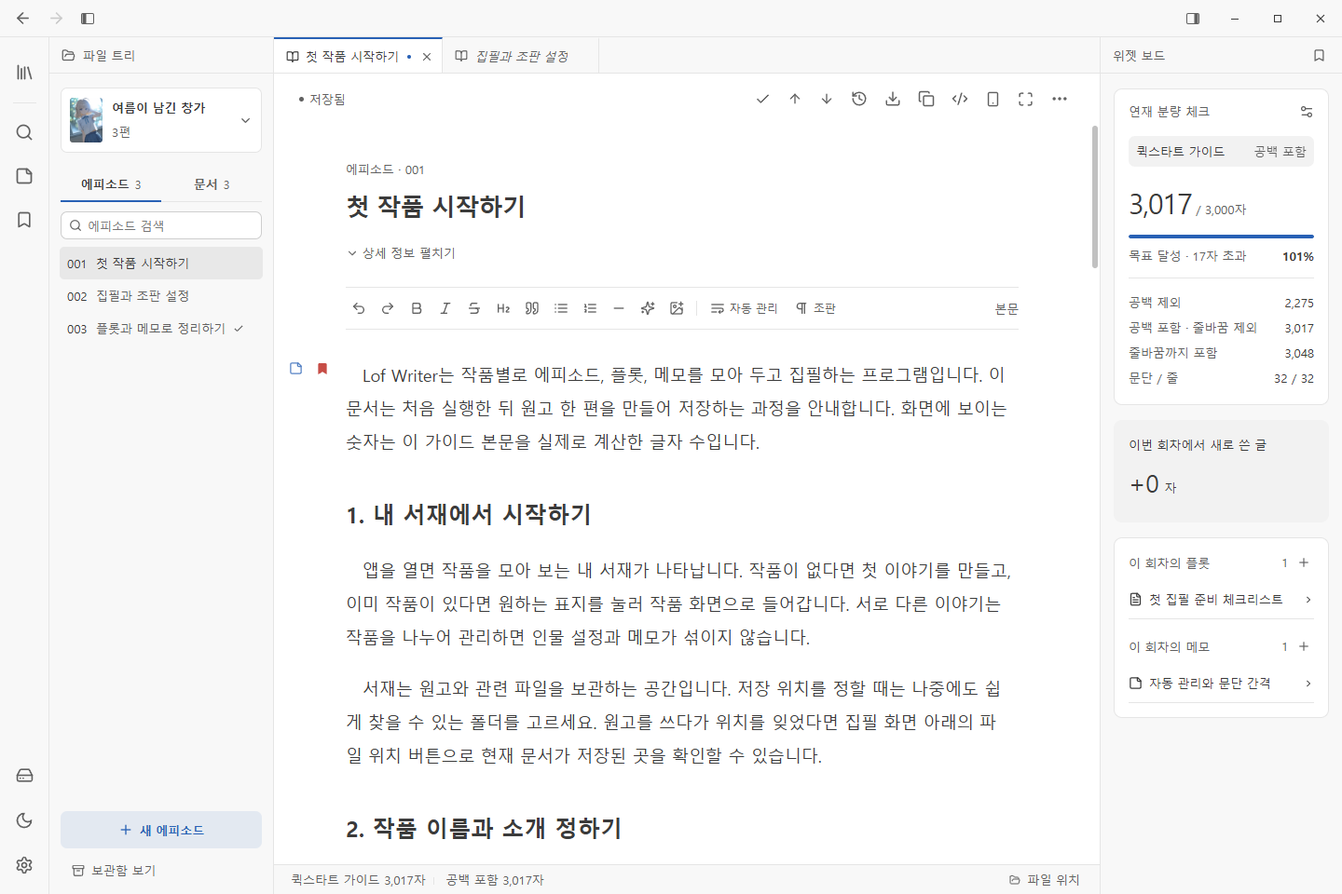
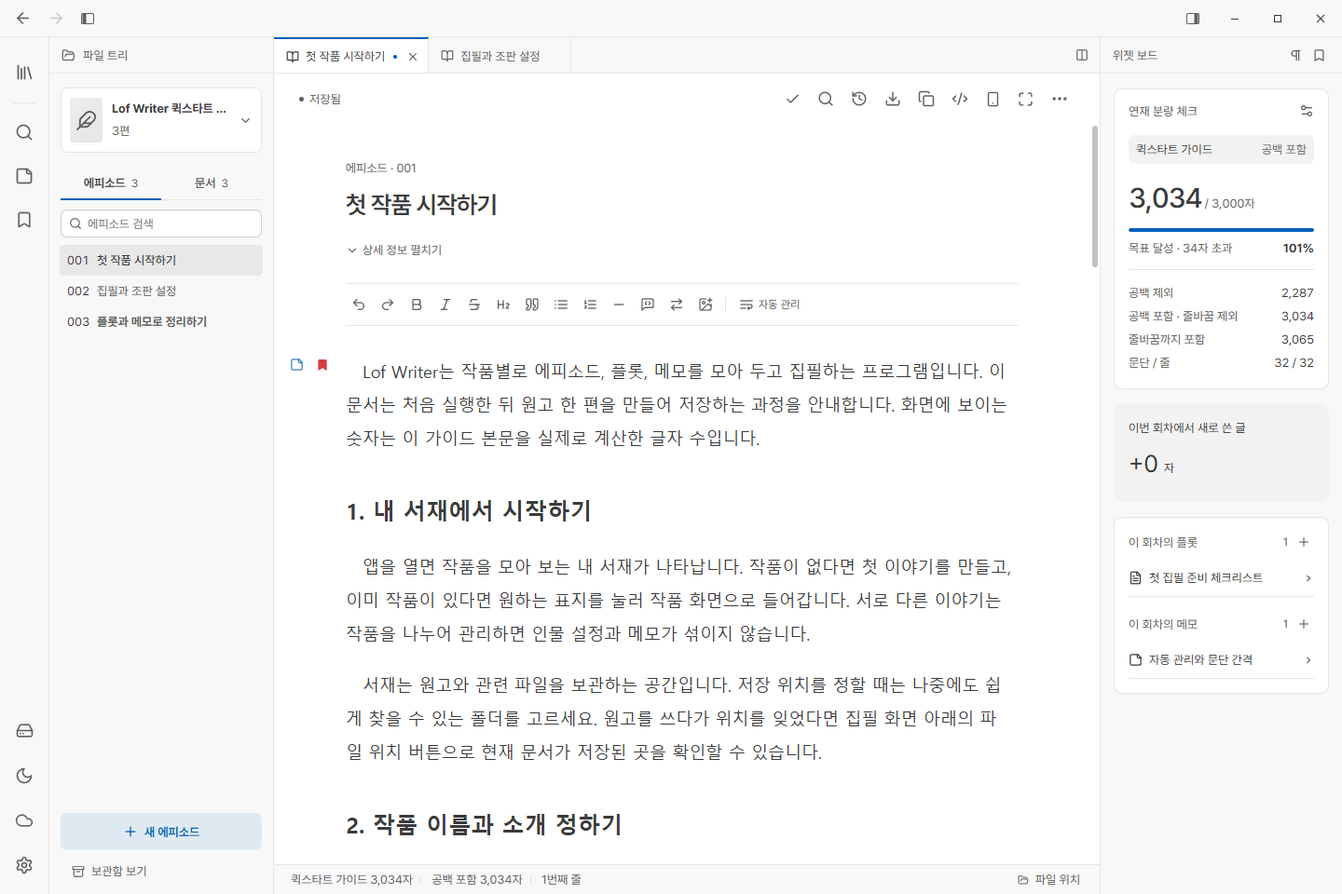
새 스냅샷으로 홈페이지 개편 및 Android 다운로드 추가

diff --git a/index.html b/index.html
@@ -3,98 +3,210 @@
 <head>
   <meta charset="utf-8">
   <meta name="viewport" content="width=device-width, initial-scale=1">
-  <meta name="description" content="원고는 내 PC에, 이야기는 다음 장으로. 회차·플롯·메모, 퀵 노트와 조판을 지원하는 무료 Windows 소설 집필 프로그램 Lof Writer.">
+  <meta name="description" content="회차·플롯·메모를 한곳에. 내 기기에 원고를 저장하고 Windows와 Android에서 이어 쓰는 무료 오픈소스 집필 프로그램, Lof Writer.">
   <meta name="color-scheme" content="light dark">
-  <title>Lof Writer — 소설 집필 프로그램</title>
+  <meta name="theme-color" content="#f8f8f3">
+  <meta property="og:title" content="Lof Writer · 이야기를 이어 쓰는 나만의 서재">
+  <meta property="og:description" content="원고와 플롯, 떠오른 생각까지 한곳에. Windows와 Android에서 시작하세요.">
+  <meta property="og:type" content="website">
+  <meta property="og:url" content="https://loopix8000.github.io/">
+  <meta property="og:image" content="https://loopix8000.github.io/assets/screenshots/editor.png">
+  <title>Lof Writer · 소설 집필 프로그램</title>
   <link rel="icon" type="image/png" href="assets/icon.png">
   <style>
-    :root { color-scheme: light dark; --bg: #faf9f6; --text: #242723; --muted: #61665e; --line: #dedfd8; --accent: #29634c; --button-text: #fff; --panel: #f0f1eb; }
+    :root { color-scheme: light dark; --bg: #f8f8f3; --paper: #fff; --ink: #202b24; --muted: #626b63; --line: #dce1d7; --accent: #28634b; --accent-ink: #fff; --soft: #edf1e8; }
     * { box-sizing: border-box; }
-    html { scroll-behavior: smooth; }
-    body { margin: 0; background: var(--bg); color: var(--text); font-family: system-ui, -apple-system, BlinkMacSystemFont, "Segoe UI", "Malgun Gothic", sans-serif; line-height: 1.8; word-break: keep-all; overflow-wrap: anywhere; }
-    .container { width: min(1160px, calc(100% - 64px)); margin-inline: auto; }
+    html { scroll-behavior: smooth; scroll-padding-top: 28px; }
+    body { margin: 0; background: var(--bg); color: var(--ink); font-family: system-ui, -apple-system, BlinkMacSystemFont, "Segoe UI", "Malgun Gothic", sans-serif; line-height: 1.75; word-break: keep-all; overflow-wrap: anywhere; }
     a { color: inherit; text-underline-offset: .25em; }
     a:focus-visible { outline: 3px solid var(--accent); outline-offset: 5px; }
-    .skip-link { position: absolute; top: 8px; left: 8px; padding: 8px 16px; background: var(--bg); transform: translateY(-180%); z-index: 1; }
+    img { display: block; max-width: 100%; height: auto; }
+    svg { flex: none; width: 20px; height: 20px; }
+    .container { width: min(1160px, calc(100% - 64px)); margin-inline: auto; }
+    .skip-link { position: absolute; top: 8px; left: 8px; z-index: 10; padding: 8px 16px; background: var(--paper); transform: translateY(-180%); }
     .skip-link:focus { transform: translateY(0); }
-    .header { display: flex; align-items: center; justify-content: space-between; flex-wrap: wrap; gap: 16px 28px; min-height: 96px; border-bottom: 1px solid var(--line); padding-block: 24px; }
-    .brand { display: inline-flex; align-items: center; gap: 11px; font-size: 18px; font-weight: 650; text-decoration: none; letter-spacing: -.025em; }
-    .brand img { width: 30px; height: 30px; }
-    nav { display: flex; flex-wrap: wrap; gap: 12px 24px; font-size: 14px; color: var(--muted); }
+    .header { display: flex; align-items: center; justify-content: space-between; gap: 20px; min-height: 88px; border-bottom: 1px solid var(--line); }
+    .brand { display: inline-flex; align-items: center; gap: 10px; flex-shrink: 0; font-size: 19px; font-weight: 700; letter-spacing: -.04em; text-decoration: none; }
+    .brand img { width: 32px; height: 32px; }
+    nav { display: flex; flex-wrap: wrap; gap: 24px; color: var(--muted); font-size: 14px; }
     nav a { text-decoration: none; }
-    nav a:hover { color: var(--text); text-decoration: underline; }
-    .hero { padding: 88px 0 44px; }
-    .eyebrow { font-size: 13px; font-weight: 650; letter-spacing: .12em; color: var(--accent); }
-    h1 { max-width: 880px; margin: 18px 0 0; font-size: clamp(36px, 5.7vw, 66px); font-weight: 650; line-height: 1.3; letter-spacing: -.055em; }
-    .description { max-width: 670px; margin: 24px 0 28px; color: var(--muted); font-size: clamp(17px, 2.2vw, 21px); line-height: 1.85; letter-spacing: -.025em; }
-    .hero-actions { display: flex; flex-wrap: wrap; align-items: center; gap: 20px; }
-    .download { display: inline-flex; align-items: center; justify-content: center; gap: 12px; padding: 13px 22px; border: 1px solid var(--accent); border-radius: 7px; background: var(--accent); color: var(--button-text); font-size: 16px; font-weight: 600; text-decoration: none; }
-    .download:hover { opacity: .88; }
-    .download svg { width: 18px; height: 18px; }
-    .availability, .demo-notice { color: var(--muted); font-size: 13px; }
-    .hero-shot { margin: 0 0 64px; }
-    .screenshot-link { display: block; border-radius: 10px; }
-    .screenshot-link img { display: block; width: 100%; height: auto; border: 1px solid var(--line); border-radius: 10px; background: var(--panel); box-shadow: 0 12px 36px #0000000a; }
-    figcaption { margin: 12px 0 0; color: var(--muted); font-size: 14px; }
-    .features { display: grid; grid-template-columns: repeat(3, minmax(0, 1fr)); gap: 32px; padding: 36px 0 48px; border-top: 1px solid var(--line); }
-    .features h2 { margin: 0 0 10px; font-size: 18px; font-weight: 650; letter-spacing: -.025em; }
-    .features p { margin: 0; font-size: 15px; line-height: 1.85; color: var(--muted); }
-    .showcase { padding: 32px 0 64px; }
-    .section-heading { margin: 0 0 12px; font-size: 32px; font-weight: 650; letter-spacing: -.04em; }
-    .section-description { max-width: 690px; color: var(--muted); margin: 0 0 28px; }
-    .demo-notice { margin: 0 0 44px; padding: 16px 20px; background: var(--panel); border-radius: 8px; }
-    .showcase-item { margin: 0 0 64px; scroll-margin-top: 24px; }
-    .showcase-item:last-child { margin-bottom: 0; }
-    .showcase-copy { display: grid; grid-template-columns: minmax(0, 1fr) minmax(0, 1fr); align-items: start; gap: 32px; margin-bottom: 20px; }
-    .showcase-copy h3 { margin: 0; font-size: 23px; font-weight: 650; letter-spacing: -.035em; }
-    .showcase-copy p { margin: 0; color: var(--muted); font-size: 15px; }
-    .closing { display: flex; align-items: center; justify-content: space-between; gap: 24px; border-top: 1px solid var(--line); padding: 40px 0 56px; }
-    .closing h2 { margin: 0 0 8px; font-size: 26px; letter-spacing: -.035em; }
-    .closing p { margin: 0; color: var(--muted); }
-    footer { display: flex; align-items: baseline; justify-content: space-between; flex-wrap: wrap; gap: 12px 24px; padding: 24px 0 32px; border-top: 1px solid var(--line); font-size: 13px; color: var(--muted); }
+    nav a:hover { color: var(--accent); text-decoration: underline; }
+    .hero { padding: 74px 0 36px; }
+    .eyebrow { margin: 0 0 20px; color: var(--accent); font-size: 12px; font-weight: 700; letter-spacing: .16em; }
+    .hero-layout { display: grid; grid-template-columns: 1.05fr 1fr; align-items: end; gap: 48px; }
+    h1 { margin: 0; font-size: clamp(38px, 4.6vw, 62px); font-weight: 650; line-height: 1.35; letter-spacing: -.065em; }
+    h1 span { color: var(--accent); }
+    .intro { margin: 0 0 24px; color: var(--muted); font-size: 17px; line-height: 1.9; letter-spacing: -.025em; }
+    .actions { display: flex; flex-wrap: wrap; gap: 10px; }
+    .button { display: inline-flex; align-items: center; justify-content: center; gap: 10px; min-height: 48px; padding: 12px 18px; border: 1px solid var(--accent); border-radius: 6px; background: var(--accent); color: var(--accent-ink); text-decoration: none; font-size: 14px; font-weight: 650; line-height: 1.5; transition: background .15s, box-shadow .15s; }
+    .button:hover { box-shadow: 0 3px 12px #00000016; }
+    .button.secondary { background: transparent; color: var(--accent); }
+    .button.secondary:hover { background: var(--soft); }
+    .availability { margin: 16px 0 0; color: var(--muted); font-size: 12px; }
+    .hero-shot { margin: 0; }
+    .shot { display: block; overflow: hidden; border: 1px solid var(--line); border-radius: 8px; background: #fff; }
+    .shot img { width: 100%; }
+    .hero-shot .shot { box-shadow: 0 16px 48px #2539270c; }
+    figcaption { display: flex; flex-wrap: wrap; justify-content: space-between; gap: 4px 20px; margin-top: 12px; color: var(--muted); font-size: 12px; }
+    .principles { display: grid; grid-template-columns: repeat(3, minmax(0, 1fr)); gap: 36px; padding: 44px 0 52px; }
+    .principles h2 { margin: 0 0 8px; font-size: 17px; letter-spacing: -.03em; }
+    .principles p { margin: 0; color: var(--muted); font-size: 14px; }
+    .section { padding: 64px 0; border-top: 1px solid var(--line); }
+    .section-title { margin: 0 0 16px; font-size: clamp(28px, 3.5vw, 38px); font-weight: 650; line-height: 1.45; letter-spacing: -.05em; }
+    .section-description { max-width: 590px; margin: 0 0 28px; color: var(--muted); font-size: 16px; }
+    .section-index { display: block; margin-bottom: 16px; color: var(--accent); font-size: 12px; font-weight: 650; letter-spacing: .12em; }
+    .project-layout { display: grid; grid-template-columns: .7fr 1.3fr; align-items: center; gap: 48px; }
+    .project-layout .section-description { margin-bottom: 20px; }
+    .text-link { color: var(--accent); font-size: 14px; }
+    .detail-grid { display: grid; grid-template-columns: repeat(2, minmax(0, 1fr)); gap: 36px; }
+    .detail h3 { margin: 0 0 10px; font-size: 23px; font-weight: 650; letter-spacing: -.04em; line-height: 1.45; }
+    .detail p { min-height: 54px; margin: 0 0 24px; color: var(--muted); font-size: 15px; }
+    .detail .shot { box-shadow: 0 8px 28px #25392706; }
+    .detail-grid + .detail-grid { margin-top: 48px; padding-top: 48px; border-top: 1px solid var(--line); }
+    .downloads { margin-bottom: 64px; padding: 44px; border: 1px solid var(--line); border-radius: 10px; background: var(--soft); }
+    .downloads .section-description { margin-bottom: 32px; }
+    .download-grid { display: grid; grid-template-columns: repeat(2, minmax(0, 1fr)); gap: 32px; }
+    .platform { padding: 28px; border: 1px solid var(--line); border-radius: 8px; background: var(--paper); }
+    .platform-heading { display: flex; align-items: center; gap: 12px; margin-bottom: 14px; }
+    .platform-heading svg { width: 25px; height: 25px; color: var(--accent); }
+    .platform h3 { margin: 0; font-size: 21px; font-weight: 650; }
+    .platform p { margin: 8px 0 20px; color: var(--muted); font-size: 14px; }
+    .platform .version { margin: 16px 0 0; font-size: 12px; }
+    .install-note { margin: 24px 0 0; color: var(--muted); font-size: 13px; }
+    .demo-notice { margin: 0 0 26px; color: var(--muted); font-size: 12px; }
+    footer { display: flex; flex-wrap: wrap; justify-content: space-between; gap: 16px 24px; padding: 24px 0 32px; border-top: 1px solid var(--line); color: var(--muted); font-size: 12px; }
     footer p { margin: 0; }
     footer nav { font-size: inherit; }
+    @media (max-width: 980px) { .hero-layout { grid-template-columns: 1fr; gap: 24px; } .hero-copy { max-width: 650px; } .hero { padding-top: 52px; } .project-layout { grid-template-columns: 1fr; gap: 24px; } }
     @media (max-width: 650px) {
       .container { width: calc(100% - 36px); }
-      .header { min-height: 80px; }
-      .header nav { gap: 12px 16px; }
-      .hero { padding: 52px 0 32px; }
-      .hero-shot { margin-bottom: 36px; }
-      .features { grid-template-columns: 1fr; gap: 26px; padding: 28px 0 36px; }
-      .showcase { padding: 16px 0 40px; }
-      .section-heading { font-size: 27px; }
-      .showcase-copy { grid-template-columns: 1fr; gap: 8px; }
-      .showcase-copy h3 { font-size: 21px; }
-      .showcase-item { margin-bottom: 40px; }
-      .closing { align-items: flex-start; flex-direction: column; }
+      .header { min-height: 76px; gap: 12px; flex-wrap: wrap; padding: 18px 0; }
+      .brand { font-size: 18px; }
+      .header nav { gap: 18px; font-size: 12px; }
+      .hero { padding: 40px 0 28px; }
+      .eyebrow { margin-bottom: 16px; font-size: 10px; }
+      .intro { font-size: 16px; }
+      .actions { flex-direction: column; }
+      .actions .button { width: 100%; min-height: 50px; }
+      .principles { grid-template-columns: 1fr; gap: 24px; padding: 32px 0 40px; }
+      .section { padding: 40px 0; }
+      .section-description { font-size: 15px; }
+      .detail-grid, .download-grid { grid-template-columns: 1fr; gap: 32px; }
+      .detail h3 { font-size: 21px; }
+      .detail p { min-height: 0; margin-bottom: 18px; }
+      .detail-grid + .detail-grid { margin-top: 32px; padding-top: 32px; }
+      .downloads { margin-bottom: 40px; padding: 28px 20px; }
+      .platform { padding: 24px 20px; }
+      .platform .button { width: 100%; }
+      .download-grid { gap: 16px; }
+      footer nav { gap: 20px; }
     }
-    @media (prefers-color-scheme: dark) { :root { --bg: #171a18; --text: #e7ebe5; --muted: #aab4a7; --line: #3b453b; --accent: #a3d2b1; --button-text: #18251d; --panel: #202721; } }
-    @media (prefers-reduced-motion: reduce) { html { scroll-behavior: auto; } }
+    @media (prefers-color-scheme: dark) { :root { --bg: #171d19; --paper: #202922; --ink: #e8ece5; --muted: #a8b3a8; --line: #39473c; --accent: #add3b6; --accent-ink: #18291e; --soft: #232f26; } }
+    @media (prefers-reduced-motion: reduce) { html { scroll-behavior: auto; } .button { transition: none; } }
   </style>
 </head>
 <body>
   <a class="skip-link" href="#main">본문으로 이동</a>
   <div class="container">
     <header class="header">
-      <a class="brand" href="./"><img src="assets/icon.png" alt="" width="30" height="30">Lof Writer</a>
-      <nav aria-label="주요 메뉴"><a href="#screenshots">기능 살펴보기</a><a href="https://github.com/loopix8000/lof-writer">GitHub</a><a href="privacy.html">개인정보처리방침</a></nav>
+      <a class="brand" href="./"><img src="assets/icon.png" alt="" width="32" height="32">Lof Writer</a>
+      <nav aria-label="주요 메뉴"><a href="#features">기능 살펴보기</a><a href="#downloads">다운로드</a><a href="https://github.com/loopix8000/lof-writer">GitHub ↗</a></nav>
     </header>
     <main id="main">
       <section class="hero" aria-labelledby="title">
-        <div class="eyebrow">LOCAL FIRST WRITING TOOL</div>
-        <h1 id="title">원고는 내 PC에,<br>이야기는 다음 장으로.</h1>
-        <p class="description">회차·플롯·메모를 한곳에서 관리하는 Windows용 소설 집필 프로그램. 떠오른 생각을 붙잡고, 이야기의 흐름을 정리하고, 나에게 맞는 화면에서 써 내려가세요.</p>
-        <div class="hero-actions"><a class="download" href="https://github.com/loopix8000/lof-writer/releases"><svg viewBox="0 0 24 24" fill="none" stroke="currentColor" stroke-width="1.8" stroke-linecap="round" stroke-linejoin="round" aria-hidden="true"><path d="M12 3v12m-5-5 5 5 5-5M5 16v4h14v-4"/></svg>Windows용 다운로드</a><a href="#screenshots">화면으로 살펴보기 ↓</a></div>
-        <p class="availability">무료 · 오픈소스 · 가입 없이 시작</p>
+        <p class="eyebrow">LOCAL FIRST WRITING TOOL</p>
+        <div class="hero-layout">
+          <h1 id="title">원고는 내 기기에,<br><span>이야기는 다음 장으로.</span></h1>
+          <div class="hero-copy">
+            <p class="intro">회차와 플롯, 떠오른 생각까지 한곳에.<br>나만의 서재에서 이야기를 정리하고,<br>Windows와 Android에서 이어 쓰세요.</p>
+            <div class="actions">
+              <a class="button" href="https://github.com/loopix8000/lof-writer/releases/download/v1.0.6-rc.1/Lof.Writer_1.0.6-rc.1_x64_ko-KR.msi"><svg viewBox="0 0 24 24" fill="none" stroke="currentColor" stroke-width="1.7" stroke-linecap="round" stroke-linejoin="round" aria-hidden="true"><rect x="3" y="3" width="18" height="13" rx="2"/><path d="M8 21h8m-4-5v5"/></svg>Windows 다운로드</a>
+              <a class="button secondary" href="https://github.com/loopix8000/lof-writer/releases/download/v0.0.3-rc.4/Lof.Writer_0.0.3-rc.4_arm64.apk"><svg viewBox="0 0 24 24" fill="none" stroke="currentColor" stroke-width="1.7" stroke-linecap="round" stroke-linejoin="round" aria-hidden="true"><rect x="6" y="2" width="12" height="20" rx="2"/><path d="M11 18h2"/></svg>Android APK 다운로드</a>
+            </div>
+            <p class="availability">무료 · 오픈소스 · 가입 없이 시작 · <a href="#downloads">설치 안내</a></p>
+          </div>
+        </div>
       </section>
-      <figure class="hero-shot" id="screenshots"><a class="screenshot-link" href="assets/screenshots/editor.png" aria-label="집필 화면 큰 이미지 보기"><img src="assets/screenshots/editor.png" alt="여름이 남긴 창가의 원고, 파일 트리와 플롯·메모 위젯이 함께 열린 Lof Writer" width="1440" height="960" fetchpriority="high"></a><figcaption>원고 옆에 플롯과 메모를 두고, 한 장면씩 이야기를 이어갑니다.<br>예시 이미지와 텍스트는 기능 이해를 돕기 위해 생성형 AI를 사용해 제작했습니다.</figcaption></figure>
-      <div class="features" aria-label="주요 기능">
-        <section><h2>파일로 남는 원고</h2><p>원고를 내 PC의 Markdown 파일로 저장합니다. 다른 편집기에서도 열고 수정할 수 있습니다.</p></section>
-        <section><h2>집필과 작품 관리</h2><p>회차·플롯·메모, 다중 탭과 분할 화면, 분량 확인과 로컬 수정 이력을 지원합니다.</p></section>
-        <section><h2>외부 저장소 동기화</h2><p>로컬·공유 폴더, FTP/FTPS, WebDAV를 연결할 수 있습니다. AI 도구는 MCP로 원고를 조회하고 편집합니다.</p></section>
+      <figure class="hero-shot">
+        <a class="shot" href="assets/screenshots/editor.png" aria-label="집필 화면 크게 보기"><img src="assets/screenshots/editor.png" alt="Lof Writer 퀵스타트 가이드 원고와 회차 목록, 글자 수 및 연결된 플롯·메모 위젯" width="1440" height="960" fetchpriority="high"></a>
+        <figcaption><span>원고 옆에 플롯과 메모를 두고, 집필에 집중하세요.</span><span>이미지를 누르면 크게 볼 수 있습니다. ↗</span></figcaption>
+      </figure>
+      <div class="principles" aria-label="Lof Writer의 기본">
+        <section><h2>파일로 남는 원고</h2><p>원고는 내 기기의 Markdown 파일로 저장합니다. 다른 편집기에서도 열 수 있습니다.</p></section>
+        <section><h2>집필에 필요한 것들을 함께</h2><p>회차별 분량, 플롯과 메모, 북마크와 수정 이력을 한 서재에서 관리합니다.</p></section>
+        <section><h2>다른 기기에서도 이어서</h2><p>Windows와 Android를 실시간 동기화로 연결하거나, 외부 저장소를 연결해 원고를 옮깁니다.</p></section>
       </div>
+      <section class="section project-layout" id="features" aria-labelledby="project-title">
+        <div>
+          <span class="section-index">01 / ORGANIZE</span>
+          <h2 class="section-title" id="project-title">한 편의 시작부터,<br>작품 전체의 흐름까지.</h2>
+          <p class="section-description">에피소드와 플롯, 메모를 작품별로 모아 둡니다. 회차마다 집필 상태와 분량을 확인하고, 다음에 쓸 이야기를 정리하세요.</p>
+          <a class="text-link" href="assets/screenshots/project.png">작품 관리 화면 크게 보기 ↗</a>
+        </div>
+        <a class="shot" href="assets/screenshots/project.png" aria-label="작품 관리 화면 크게 보기"><img src="assets/screenshots/project.png" alt="표지 이미지 없이 구성한 퀵스타트 가이드 작품의 소개와 세 회차의 집필·수정·완료 상태" width="1440" height="960" loading="lazy" decoding="async"></a>
+      </section>
+      <section class="section" aria-labelledby="split-title">
+        <span class="section-index">02 / WRITE</span>
+        <h2 class="section-title" id="split-title">필요한 문서를 옆에 펼치고 쓰세요.</h2>
+        <p class="section-description">탭으로 문서를 오가고, 분할 화면으로 원고와 플롯을 나란히 봅니다. 회차에 연결한 메모와 목표 분량도 집필 화면에서 바로 확인합니다.</p>
+        <a class="shot" href="assets/screenshots/split.png" aria-label="분할 집필 화면 크게 보기"><img src="assets/screenshots/split.png" alt="첫 작품 시작하기 원고와 첫 집필 준비 체크리스트를 나란히 연 분할 화면" width="1440" height="960" loading="lazy" decoding="async"></a>
+      </section>
+      <section class="section" aria-labelledby="notes-title">
+        <span class="section-index">03 / KEEP</span>
+        <h2 class="section-title" id="notes-title">떠오른 생각도, 다시 읽을 문장도.</h2>
+        <p class="section-description">글을 쓰다 잠깐 멈춘 자리에서 생각을 남기세요. 원고의 위치를 기억해 두면 다음 집필을 이어 가기 쉽습니다.</p>
+        <div class="detail-grid">
+          <article class="detail">
+            <h3>선택한 문장에서 바로 퀵 노트</h3>
+            <p>문장을 선택하고 메모를 남깁니다. 저장한 메모의 출처 링크로 원래 문장에 돌아올 수 있습니다.</p>
+            <a class="shot" href="assets/screenshots/quick-note.png" aria-label="퀵 노트 화면 크게 보기"><img src="assets/screenshots/quick-note.png" alt="첫 문단만 인용한 퀵 노트에 제목과 집필 설정 메모를 입력하는 화면" width="1440" height="960" loading="lazy" decoding="async"></a>
+          </article>
+          <article class="detail">
+            <h3>북마크로 모아 보는 필요한 문단</h3>
+            <p>다시 읽고 싶은 문단에 표시를 남겨 두세요. 작품별 북마크를 모아 보고 원하는 위치로 이동합니다.</p>
+            <a class="shot" href="assets/screenshots/bookmarks.png" aria-label="북마크 화면 크게 보기"><img src="assets/screenshots/bookmarks.png" alt="퀵스타트 가이드의 문단별 북마크를 한곳에 모아 확인하는 화면" width="1440" height="960" loading="lazy" decoding="async"></a>
+          </article>
+        </div>
+      </section>
+      <section class="section" aria-labelledby="tools-title">
+        <span class="section-index">04 / REFINE</span>
+        <h2 class="section-title" id="tools-title">자료를 정리하고, 읽는 모습을 살펴보고.</h2>
+        <div class="detail-grid">
+          <article class="detail">
+            <h3>표와 속성으로 정리하는 자료</h3>
+            <p>플롯과 메모에 표를 넣고, 문서에 필요한 속성을 붙입니다. 설정과 참고 자료를 찾기 쉽게 관리하세요.</p>
+            <a class="shot" href="assets/screenshots/table.png" aria-label="표와 문서 속성 화면 크게 보기"><img src="assets/screenshots/table.png" alt="집필 계획을 표로 정리하고 사용자 속성을 지정한 문서" width="1440" height="960" loading="lazy" decoding="async"></a>
+          </article>
+          <article class="detail">
+            <h3>PC에서 확인하는 모바일 미리보기</h3>
+            <p>작은 화면에서의 줄바꿈과 읽는 흐름을 살펴봅니다. 화면 폭과 글자 크기를 바꿔 원고를 확인하세요.</p>
+            <a class="shot" href="assets/screenshots/mobile.png" aria-label="PC의 모바일 미리보기 화면 크게 보기"><img src="assets/screenshots/mobile.png" alt="Windows 앱의 원고 옆에 휴대폰 화면 폭으로 표시한 모바일 미리보기" width="1440" height="960" loading="lazy" decoding="async"></a>
+          </article>
+        </div>
+      </section>
+      <section class="downloads" id="downloads" aria-labelledby="download-title">
+        <p class="eyebrow">START YOUR NEXT CHAPTER</p>
+        <h2 class="section-title" id="download-title">다음 문장을 시작해 보세요.</h2>
+        <p class="section-description">사용하는 기기에 맞는 버전을 내려받으세요.<br>원고와 메모는 각 기기에 저장됩니다.</p>
+        <div class="download-grid">
+          <article class="platform">
+            <div class="platform-heading"><svg viewBox="0 0 24 24" fill="none" stroke="currentColor" stroke-width="1.6" stroke-linecap="round" stroke-linejoin="round" aria-hidden="true"><rect x="3" y="3" width="18" height="13" rx="2"/><path d="M8 21h8m-4-5v5"/></svg><h3>Windows</h3></div>
+            <p>64비트 Windows용 MSI 설치 파일</p>
+            <a class="button" href="https://github.com/loopix8000/lof-writer/releases/download/v1.0.6-rc.1/Lof.Writer_1.0.6-rc.1_x64_ko-KR.msi">Windows 다운로드 <span aria-hidden="true">↓</span></a>
+            <p class="version">1.0.6-rc.1 · 출시 후보 · <a href="https://github.com/loopix8000/lof-writer/releases/tag/v1.0.6-rc.1">릴리즈 노트 ↗</a></p>
+          </article>
+          <article class="platform">
+            <div class="platform-heading"><svg viewBox="0 0 24 24" fill="none" stroke="currentColor" stroke-width="1.6" stroke-linecap="round" stroke-linejoin="round" aria-hidden="true"><rect x="6" y="2" width="12" height="20" rx="2"/><path d="M11 18h2"/></svg><h3>Android</h3></div>
+            <p>Android 7.0 이상 · ARM64 기기용 APK</p>
+            <a class="button secondary" href="https://github.com/loopix8000/lof-writer/releases/download/v0.0.3-rc.4/Lof.Writer_0.0.3-rc.4_arm64.apk">Android APK 다운로드 <span aria-hidden="true">↓</span></a>
+            <p class="version">0.0.3-rc.4 · 출시 후보 · <a href="https://github.com/loopix8000/lof-writer/releases/tag/v0.0.3-rc.4">릴리즈 노트 ↗</a></p>
+          </article>
+        </div>
+        <p class="install-note">Android는 APK를 직접 설치합니다. 설치할 때 브라우저나 파일 앱의 ‘이 출처 허용’을 켜 주세요. 첫 실행 시 서재 폴더 사용을 위한 파일 접근 권한을 요청합니다. <a href="https://github.com/loopix8000/lof-writer#android">사용 안내 ↗</a></p>
+      </section>
+      <p class="demo-notice">화면은 실제 Windows 앱에서 예제 작품 「Lof Writer 퀵스타트 가이드」로 촬영했습니다. 예제 텍스트는 기능 안내를 위해 생성형 AI로 작성했습니다.</p>
     </main>
-    <footer><p>개발 <a href="https://github.com/loopix8000">loopix8000</a> · <a href="https://github.com/loopix8000/lof-writer/blob/main/LICENSE">MIT License</a></p><nav aria-label="안내"><a href="privacy.html">개인정보처리방침</a><a href="https://github.com/loopix8000/lof-writer/issues">문의</a></nav></footer>
+    <footer><p>개발 <a href="https://github.com/loopix8000">loopix8000</a> · <a href="https://github.com/loopix8000/lof-writer/blob/main/LICENSE">MIT License</a></p><nav aria-label="안내"><a href="privacy.html">개인정보처리방침</a><a href="https://github.com/loopix8000/lof-writer/issues">문의</a><a href="https://github.com/loopix8000/lof-writer/releases">모든 버전 ↗</a></nav></footer>
   </div>
 </body>
 </html>
